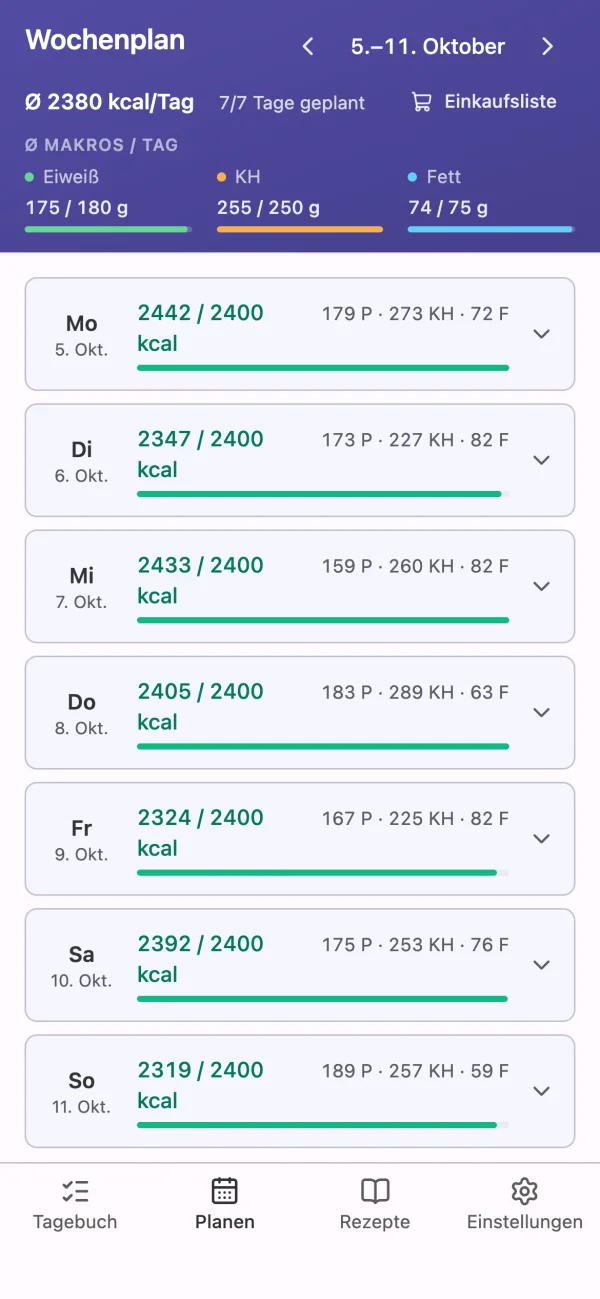
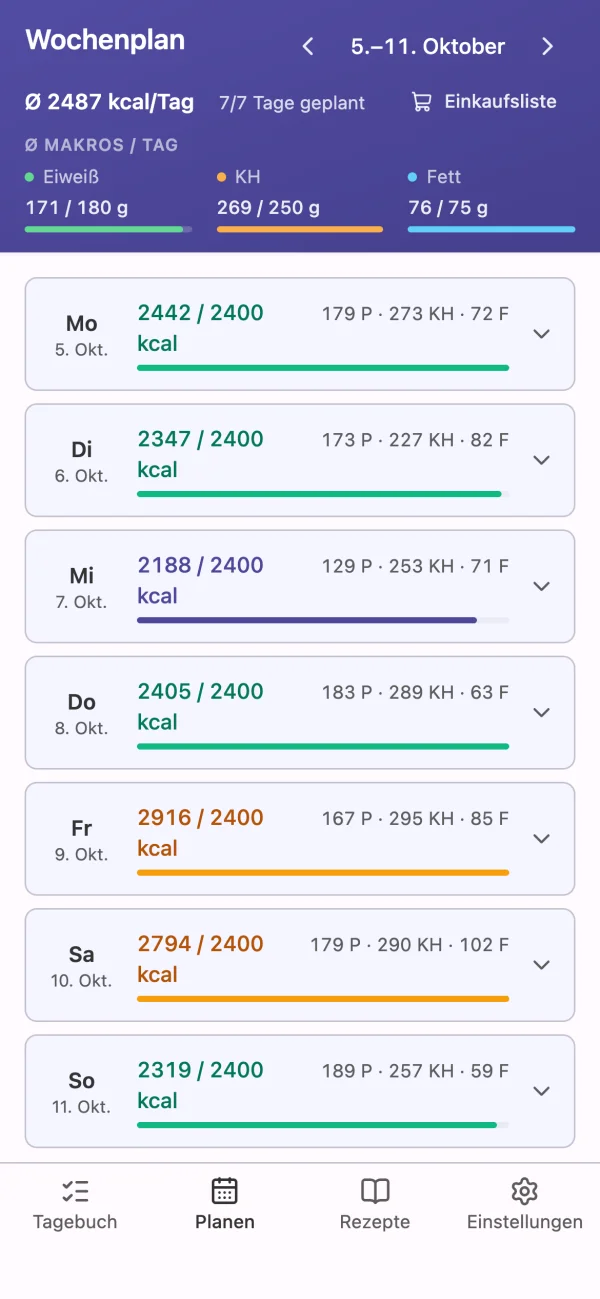
Show an imperfect demo week and add the cooking view to the landing page
The demo seed no longer hits the goal every day: Wednesday stays under,
Friday (frozen pizza, beer) and Saturday (crisps) go over, so the week plan
shows every day tone. Foods outside the catalog are logged with their own
macros.

The capture script pins the browser clock into the seeded week, so shots
no longer depend on the day they are taken: Saturday for the daily log,
Monday morning for the new cooking shot, where all planned meals are still
ahead. All screenshots and link-preview images are recaptured in EN and DE.

The landing page gains a "Cook once for the week" step after shopping, and
the grocery step mentions setting the servings you cook. The forkcast-dev
skill describes the seeded week and the pinned clock.

Claude-Session: https://claude.ai/code/session_01XePo81tEWJZyEbhZQyK3yx

diff --git a/website/index.html b/website/index.html
@@ -315,8 +315,9 @@
               <div class="step-text">
                 <h3>Shop from the plan</h3>
                 <p>
-                  The grocery list adds up everything the week needs, with piece hints like "≈ 3" for onions. Tick off
-                  what's already at home, or send the list to Bring!.
+                  The grocery list adds up everything the week needs, with piece hints like "≈ 3" for onions. Set how
+                  many servings of each recipe you'll actually cook, and the amounts follow. Tick off what's already at
+                  home, or send the list to Bring!.
                 </p>
               </div>
               <div>
@@ -325,8 +326,33 @@
                     src="/screenshots/en/grocery-list.webp"
                     srcset="/screenshots/en/grocery-list-600.webp 600w, /screenshots/en/grocery-list.webp 1170w"
                     sizes="300px"
-                    alt="Grocery list generated from the week plan."
+                    alt="Grocery list generated from the week plan, with the servings to cook per recipe."
                     data-missing="Grocery list screenshot"
+                    width="1170"
+                    height="2532"
+                    loading="lazy"
+                  />
+                </div>
+              </div>
+            </div>
+
+            <div class="step">
+              <div class="step-text">
+                <h3>Cook once for the week</h3>
+                <p>
+                  Cook a planned recipe in one go for every meal it has that week. The cooking view shows the amounts
+                  for the whole pot, the steps and the macros each serving logs. Used the whole bottle, or swapped an
+                  ingredient? Change it while you cook, and every planned meal follows. The screen stays on.
+                </p>
+              </div>
+              <div>
+                <div class="device">
+                  <img
+                    src="/screenshots/en/cooking.webp"
+                    srcset="/screenshots/en/cooking-600.webp 600w, /screenshots/en/cooking.webp 1170w"
+                    sizes="300px"
+                    alt="Cooking view for the Chicken Rice Bowl: four planned servings, macros per serving and the amounts for the pot."
+                    data-missing="Cooking view screenshot"
                     width="1170"
                     height="2532"
                     loading="lazy"

diff --git a/website/de/index.html b/website/de/index.html
@@ -322,7 +322,8 @@
                 <h3>Einkaufen nach Plan</h3>
                 <p>
                   Die Einkaufsliste rechnet zusammen, was die Woche braucht, mit Stückhinweisen wie „≈ 3“ bei Zwiebeln.
-                  Hak ab, was schon da ist, oder schick die Liste an Bring!.
+                  Stell ein, wie viele Portionen du von jedem Rezept wirklich kochst, und die Mengen ziehen mit. Hak ab,
+                  was schon da ist, oder schick die Liste an Bring!.
                 </p>
               </div>
               <div>
@@ -331,8 +332,34 @@
                     src="/screenshots/de/grocery-list.webp"
                     srcset="/screenshots/de/grocery-list-600.webp 600w, /screenshots/de/grocery-list.webp 1170w"
                     sizes="300px"
-                    alt="Aus dem Wochenplan erzeugte Einkaufsliste."
+                    alt="Aus dem Wochenplan erzeugte Einkaufsliste, mit den Portionen, die du je Rezept kochst."
                     data-missing="Screenshot Einkaufsliste"
+                    width="1170"
+                    height="2532"
+                    loading="lazy"
+                  />
+                </div>
+              </div>
+            </div>
+
+            <div class="step">
+              <div class="step-text">
+                <h3>Einmal kochen für die Woche</h3>
+                <p>
+                  Koch ein geplantes Rezept in einem Rutsch für alle Mahlzeiten, in denen es diese Woche steht. Die
+                  Kochansicht zeigt die Mengen für den ganzen Topf, die Schritte und die Makros, die jede Portion
+                  einträgt. Die ganze Flasche genommen oder eine Zutat getauscht? Änder es beim Kochen, und jede
+                  geplante Mahlzeit zieht mit. Der Bildschirm bleibt an.
+                </p>
+              </div>
+              <div>
+                <div class="device">
+                  <img
+                    src="/screenshots/de/cooking.webp"
+                    srcset="/screenshots/de/cooking-600.webp 600w, /screenshots/de/cooking.webp 1170w"
+                    sizes="300px"
+                    alt="Kochansicht der Hähnchen-Reis-Bowl: vier geplante Portionen, Makros pro Portion und die Mengen für den Topf."
+                    data-missing="Screenshot Kochansicht"
                     width="1170"
                     height="2532"
                     loading="lazy"

diff --git a/.claude/skills/forkcast-dev/SKILL.md b/.claude/skills/forkcast-dev/SKILL.md
@@ -115,7 +115,7 @@ What the page relies on:
 
 - Phone shots are 390x844 at 3x (1170x2532), no status bar. The website's phone frame (`.device`, drawn by `website/public/device-body.svg` + `device-bezel.svg`, 436x891 units) expects that ratio and has no Dynamic Island, since it would cover the app header.
 - The capture adds the iPhone's 34px home-indicator gutter under the bottom nav and sheets (headless Chrome reports no safe-area insets). Without it the tab labels run into the frame's rounded corners and under its home indicator bar. Tailwind `@theme inline` bakes `env()` into the `pb-safe-b` / `pb-nav-safe` utilities, so the script overrides those classes, not the tokens.
-- The daily-log shot shows the day the capture runs. The seeded week is the current week (`WEEK_START` overrides it), so capture on a day whose log shows what you want.
+- The seed plans the current week (`WEEK_START` overrides it in both scripts) and is deliberately imperfect: Wednesday under goal, Friday and Saturday over (pizza, beer, crisps), the rest on target, so the week plan shows every day tone. The capture pins the browser clock into that week, so shots don't depend on the day you run it: Saturday for the daily log (the over day), Monday morning for the cooking view (all planned meals still ahead, so it selects them all).
 
 ## Gotchas (don't re-diagnose these)
 
